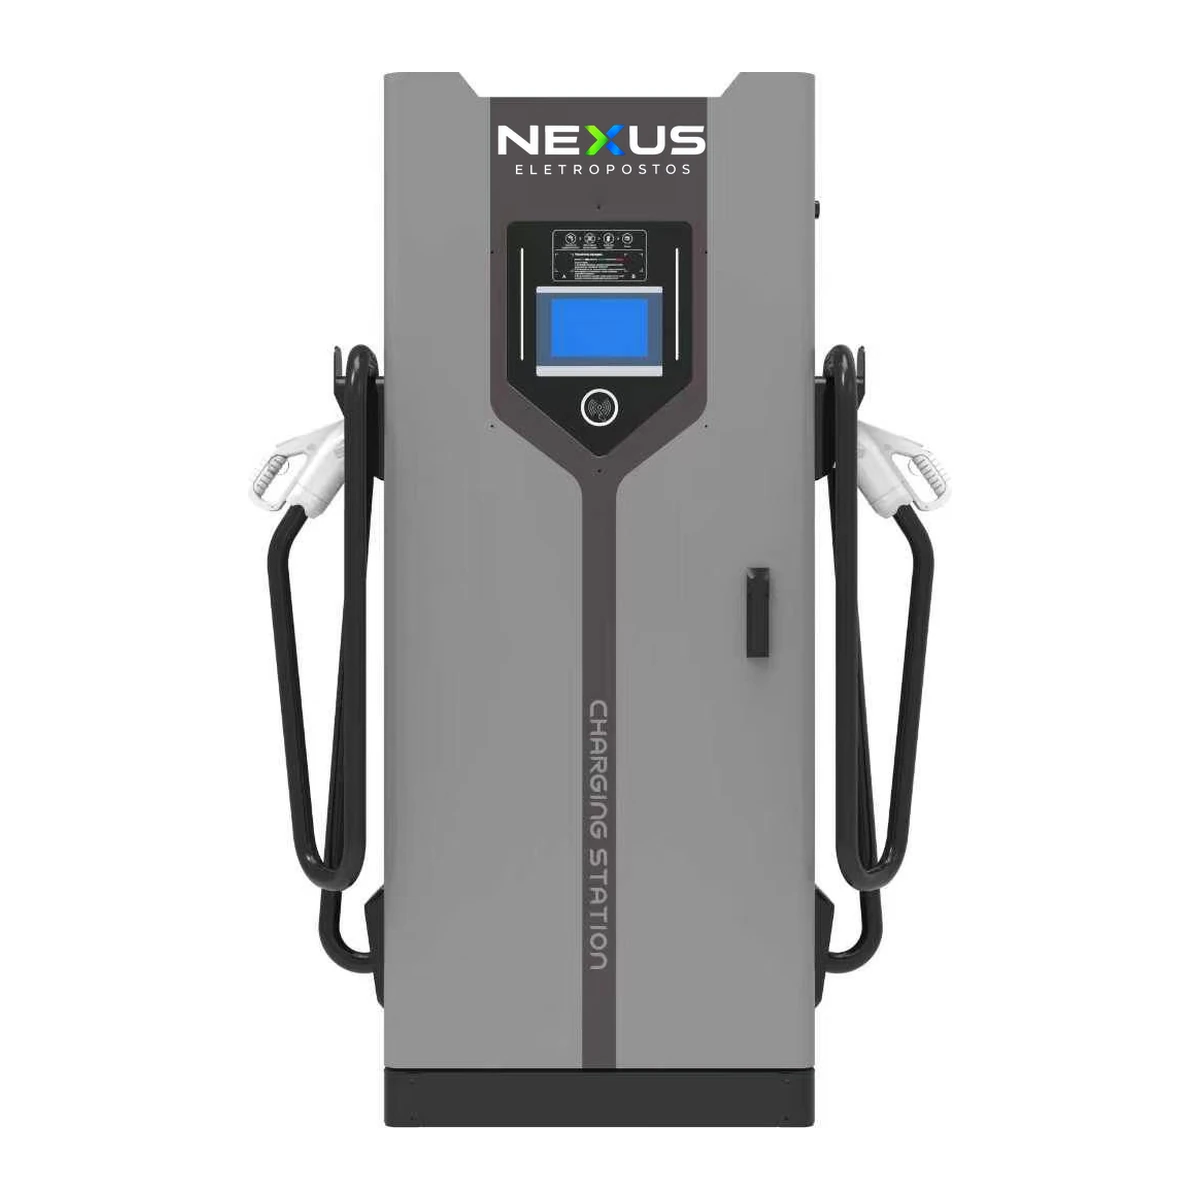
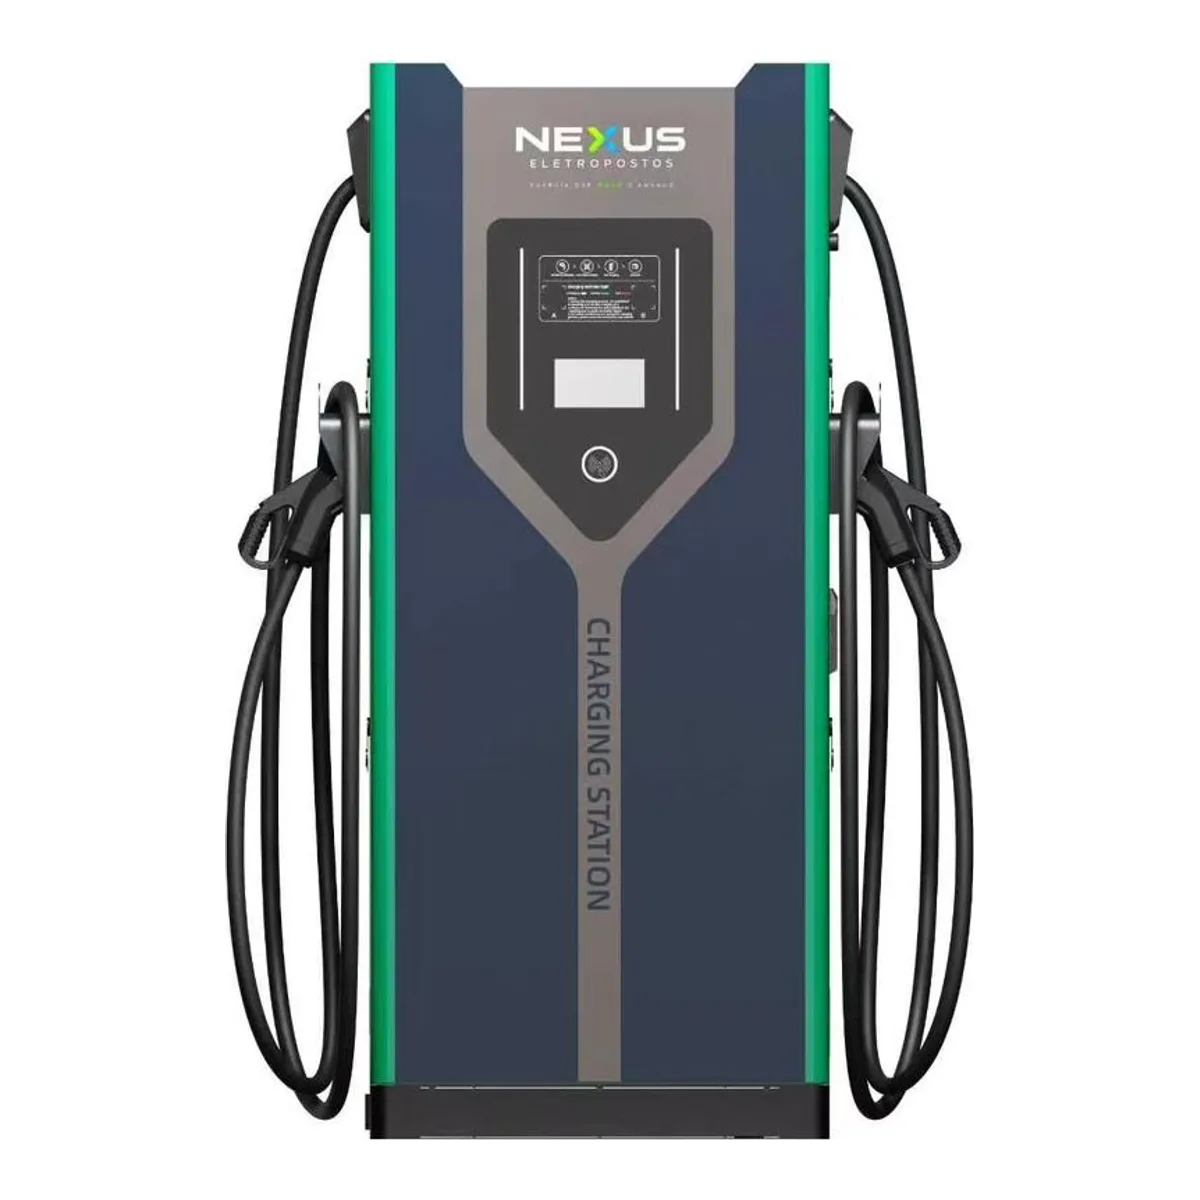
feat(nexus): a arte final do carregador DC entra no site, em quatro vistas
O gabinete azul-marinho com as faixas verdes substitui o render na pintura
cinza antiga nos quatro cards DC da /nexus. Logo abaixo dos cards entra uma
faixa com as quatro vistas (frente, frente em perspectiva, porta de serviço e
traseira), e o schema do DC80 e do DC120 passa a listar as quatro imagens.
O card "Modelo 04 · Só o equipamento" da /io/eletroposto troca o recorte da
foto de fábrica pelo recorte da arte final.

O trocar-carregador.js foi reescrito para as quatro vistas. Ele corta o
branco em volta antes de encaixar (a arte chegou em 1600x900 com a máquina
ocupando um terço) e deixou de escrever por cima das fotos reais de estoque:
a seção onde elas estão diz "sem render, sem estúdio". Também não mexe na
capa.webp, nos wallbox nem na /eletroposto, que assina Irmãos na Obra.

diff --git a/dashboard/scripts/trocar-carregador.js b/dashboard/scripts/trocar-carregador.js
@@ -1,71 +1,91 @@
 #!/usr/bin/env node
 /**
- * Põe o render do carregador NEXUS final em todo lugar que mostra o produto.
+ * Põe a arte final do carregador DC da NEXUS nos lugares que mostram o produto.
  *
- * Uso:  node dashboard/scripts/trocar-carregador.js <caminho-do-png-ou-webp>
- *       node dashboard/scripts/trocar-carregador.js <arquivo> --dry
+ * Uso (as quatro vistas, nesta ordem):
+ *   node dashboard/scripts/trocar-carregador.js <frente> <frente-perspectiva> <traseira-perspectiva> <traseira>
+ *   ... --dry   só lista o que seria gravado
  *
- * POR QUE ESTE SCRIPT EXISTE (17/09/2026)
- * O funil mostrava três máquinas diferentes e nenhuma era o produto final: uma cena
- * gerada com gabinete branco no topo de quatro páginas, o mesmo gabinete do produto
- * na pintura cinza antiga em /nexus, e uma foto real de caixa branca com os cabos
- * ainda embrulhados em plástico no site institucional.
+ *   frente                a tela e o "CHARGING STATION" de frente
+ *   frente-perspectiva    a mesma face, girada, mostrando a lateral com a grade
+ *   traseira-perspectiva  a porta de serviço girada, com a grade da lateral
+ *   traseira              a porta de serviço de frente
  *
- * O QUE ELE NÃO FAZ
- * Não encosta em capa.webp (a cena do topo, com dois carros e a cobertura) nem nos
- * três AC (p-ac7, p-ac11, p-ac22). Aqueles são outras imagens, não outra pintura
- * desta, e trocar por um render de DC seria mentir sobre o produto.
+ * HISTÓRICO
+ * 17/09/2026: a primeira versão pegava UM arquivo e gravava por cima de sete,
+ *   inclusive das fotos reais de estoque.
+ * 21/09/2026: a arte final chegou em quatro vistas de 1600x900 com muito branco em
+ *   volta. Esta versão corta o branco antes de encaixar (sem isso a máquina ficava
+ *   com um terço da altura do card) e escreve só onde o produto é desenho.
+ *
+ * O QUE ELE NÃO FAZ, DE PROPÓSITO
+ * - nexus/img/hero.webp, equipamento.webp e unidade.webp: são fotos de fábrica, e a
+ *   seção da /nexus diz "sem render, sem estúdio". Trocar por render seria mentir.
+ * - nexus/img/capa.webp: é a cena do topo (cobertura e dois carros), outra imagem.
+ *   Refazer a cena com a máquina nova é geração de imagem, não recorte.
+ * - p-ac7, p-ac11, p-ac22: são os wallbox, outro produto.
+ * - eletroposto/img/produto-dc.jpg: a /eletroposto assina Irmãos na Obra, e a arte
+ *   final tem o logo da NEXUS estampado no gabinete.
  */
 const fs = require('fs');
 const path = require('path');
 const sharp = require(path.join(__dirname, '..', 'node_modules', 'sharp'));
 
 const RAIZ = path.join(__dirname, '..', 'public');
-const FUNDO = { r: 255, g: 255, b: 255, alpha: 1 };   // o padrão de recorte da casa
+const BRANCO = { r: 255, g: 255, b: 255, alpha: 1 };
 
-// destino, largura, altura, qualidade. As medidas são as dos arquivos que já estão
-// no ar: mudar o tamanho aqui desalinha o layout que já foi testado no celular.
+// vista (índice do argumento), destino, largura, altura, margem, qualidade, modo.
+// 'inteiro' encaixa a máquina toda com margem; 'topo' recorta a parte de cima
+// (logo e tela), que é o que se lê numa miniatura de 132 px.
 const ALVOS = [
-  ['nexus/img/p-dc.webp',                         1200, 1200, 82],
-  ['nexus/img/equipamento.webp',                   820, 1093, 82],
-  ['nexus/img/unidade.webp',                       820, 1093, 82],
-  ['io/eletroposto/img/fotos/produto-dc-900.webp', 900, 1132, 82],
-  ['io/eletroposto/img/fotos/produto-dc-600.webp', 600,  755, 80],
-  ['io/eletroposto/img/fotos/modelo-04-equipamento.webp', 480, 320, 80],
-  ['eletroposto/img/produto-dc.jpg',              1040, 1418, 86],
+  [0, 'nexus/img/p-dc.webp',                    1200, 1200, 0.05, 82, 'inteiro'],
+  [1, 'nexus/img/dc-perspectiva.webp',           800,  800, 0.06, 80, 'inteiro'],
+  [2, 'nexus/img/dc-lateral.webp',               800,  800, 0.06, 80, 'inteiro'],
+  [3, 'nexus/img/dc-traseira.webp',              800,  800, 0.06, 80, 'inteiro'],
+  [1, 'io/eletroposto/img/fotos/modelo-04-equipamento.webp', 480, 320, 0, 80, 'topo'],
 ];
 
+// Corta o fundo branco. O limiar tolera o ruído do JPEG sem comer a sombra do piso.
+async function recortado(origem) {
+  const { data, info } = await sharp(origem)
+    .trim({ background: '#ffffff', threshold: 18 })
+    .toBuffer({ resolveWithObject: true });
+  return { buf: data, w: info.width, h: info.height };
+}
+
+async function gerar(origem, [, rel, W, H, margem, q, modo]) {
+  const r = await recortado(origem);
+  let img;
+  if (modo === 'topo') {
+    // Faixa de cima com a proporção do destino, pegando a largura inteira do gabinete.
+    const alto = Math.min(r.h, Math.round(r.w * H / W));
+    img = sharp(r.buf).extract({ left: 0, top: 0, width: r.w, height: alto }).resize(W, H, { fit: 'cover' });
+  } else {
+    const padX = Math.round(W * margem), padY = Math.round(H * margem);
+    img = sharp(r.buf)
+      .resize(W - 2 * padX, H - 2 * padY, { fit: 'contain', background: BRANCO })
+      .extend({ top: padY, bottom: padY, left: padX, right: padX, background: BRANCO });
+  }
+  img = img.flatten({ background: BRANCO });
+  return rel.endsWith('.jpg') ? img.jpeg({ quality: q, mozjpeg: true }) : img.webp({ quality: q });
+}
+
 async function main() {
-  const origem = process.argv[2];
+  const args = process.argv.slice(2).filter(a => !a.startsWith('--'));
   const dry = process.argv.includes('--dry');
-  if (!origem || !fs.existsSync(origem)) {
-    console.error('Passe o caminho do arquivo do render. Ex.:');
-    console.error('  node dashboard/scripts/trocar-carregador.js ~/Downloads/nexus-dc.png');
+  if (args.length !== 4 || !args.every(a => fs.existsSync(a))) {
+    console.error('Passe as quatro vistas: frente, frente-perspectiva, traseira-perspectiva, traseira.');
     process.exit(1);
   }
 
-  const m = await sharp(origem).metadata();
-  console.log(`origem: ${origem} — ${m.width}x${m.height} ${m.format}\n`);
-
-  for (const [rel, w, h, q] of ALVOS) {
+  for (const alvo of ALVOS) {
+    const [i, rel, W, H] = alvo;
     const destino = path.join(RAIZ, rel);
-    if (!fs.existsSync(destino)) { console.log(`PULADO (não existe): ${rel}`); continue; }
-    const antes = Math.round(fs.statSync(destino).size / 1024);
-    if (dry) { console.log(`[dry] ${rel}  ${w}x${h}  (hoje ${antes} KB)`); continue; }
-
-    // `contain` e não `cover`: o produto é alto e estreito, e cortar para preencher
-    // um slot deitado (o modelo-04 é 480x320) decepa a máquina pela metade.
-    let img = sharp(origem).resize(w, h, { fit: 'contain', background: FUNDO });
-    img = rel.endsWith('.jpg') ? img.jpeg({ quality: q }) : img.webp({ quality: q });
-    await img.toFile(destino + '.tmp');
+    const antes = fs.existsSync(destino) ? `${Math.round(fs.statSync(destino).size / 1024)} KB` : 'novo';
+    if (dry) { console.log(`[dry] ${rel}  ${W}x${H}  de ${path.basename(args[i])}  (hoje ${antes})`); continue; }
+    await (await gerar(args[i], alvo)).toFile(destino + '.tmp');
     fs.renameSync(destino + '.tmp', destino);
-    const depois = Math.round(fs.statSync(destino).size / 1024);
-    console.log(`ok  ${rel}  ${w}x${h}  ${antes} KB -> ${depois} KB`);
-  }
-
-  if (!dry) {
-    console.log('\nNenhum HTML precisou mudar: os arquivos mantêm o mesmo nome e tamanho.');
-    console.log('Confira /nexus, /eletroposto e /io/eletroposto antes de publicar.');
+    console.log(`ok  ${rel}  ${W}x${H}  ${antes} -> ${Math.round(fs.statSync(destino).size / 1024)} KB`);
   }
 }
 

diff --git a/dashboard/public/nexus/index.html b/dashboard/public/nexus/index.html
@@ -73,7 +73,7 @@
           "item": {
             "@type": "Product", "name": "NEXUS DC80", "sku": "NEXUS-DC80",
             "description": "Carregador rápido DC de 80 kW, dois plugues CCS2, dois carros ao mesmo tempo, OCPP 1.6J.",
-            "image": "https://solardoc.app/nexus/img/p-dc.webp",
+            "image": ["https://solardoc.app/nexus/img/p-dc.webp", "https://solardoc.app/nexus/img/dc-perspectiva.webp", "https://solardoc.app/nexus/img/dc-lateral.webp", "https://solardoc.app/nexus/img/dc-traseira.webp"],
             "category": "Carregador para veículo elétrico",
             "brand": { "@type": "Brand", "name": "NEXUS" },
             "offers": { "@type": "Offer", "price": "69990.00", "priceCurrency": "BRL", "availability": "https://schema.org/InStock", "itemCondition": "https://schema.org/NewCondition", "url": "https://solardoc.app/nexus#produtos", "seller": { "@id": "https://solardoc.app/nexus#empresa" } }
@@ -84,7 +84,7 @@
           "item": {
             "@type": "Product", "name": "NEXUS DC120", "sku": "NEXUS-DC120",
             "description": "Carregador rápido DC de 120 kW, dois plugues CCS2, divide a potência entre as vagas, OCPP 1.6J.",
-            "image": "https://solardoc.app/nexus/img/p-dc.webp",
+            "image": ["https://solardoc.app/nexus/img/p-dc.webp", "https://solardoc.app/nexus/img/dc-perspectiva.webp", "https://solardoc.app/nexus/img/dc-lateral.webp", "https://solardoc.app/nexus/img/dc-traseira.webp"],
             "category": "Carregador para veículo elétrico",
             "brand": { "@type": "Brand", "name": "NEXUS" },
             "offers": { "@type": "Offer", "price": "89990.00", "priceCurrency": "BRL", "availability": "https://schema.org/InStock", "itemCondition": "https://schema.org/NewCondition", "url": "https://solardoc.app/nexus#produtos", "seller": { "@id": "https://solardoc.app/nexus#empresa" } }
@@ -278,6 +278,18 @@ section{padding:56px 0 0;scroll-margin-top:78px}
   padding:4px 10px;font-size:11px;font-weight:600}
 .selo.destaque{background:var(--verde-fundo);color:var(--verde);border:1px solid var(--verde-linha)}
 .nota{margin-top:14px;font-size:12.5px;color:var(--fraco)}
+
+/* quatro vistas do gabinete DC: fundo branco como o dos cards, legenda no escuro */
+.vistas-titulo{margin:26px 0 12px}
+.vistas{display:grid;gap:14px;grid-template-columns:repeat(4,1fr)}
+.vistas figure{margin:0;background:var(--cartao);border:1px solid var(--linha);border-radius:16px;overflow:hidden}
+.vistas figure > div{background:#fff}
+.vistas img{width:100%;height:auto;aspect-ratio:1/1;object-fit:contain;padding:6px}
+.vistas figcaption{padding:10px 14px;font-size:13px;font-weight:600;color:var(--texto)}
+@media(max-width:700px){
+  .vistas{grid-template-columns:repeat(2,1fr);gap:10px}
+  .vistas figcaption{padding:8px 11px;font-size:12px}
+}
 
 /* ── faixa de posicionamento ─────────────────────────────────────────── */
 .posic{margin-top:16px;background:
@@ -645,6 +657,17 @@ footer .base{border-top:1px solid var(--linha);padding-top:20px;display:flex;gap
       </div>
     </article>
 
+  </div>
+
+  <!-- A arte final do gabinete DC em quatro vistas. A frente reaproveita o
+       p-dc.webp dos cards, que o navegador já baixou. Gerado por
+       scripts/trocar-carregador.js a partir das quatro vistas originais. -->
+  <p class="rotulo vistas-titulo">O gabinete da linha DC, dos quatro lados</p>
+  <div class="vistas">
+    <figure><div><img src="/nexus/img/p-dc.webp" width="1200" height="1200" alt="Gabinete NEXUS DC de frente, azul-marinho com faixas verdes, tela e a faixa CHARGING STATION, com um cabo CCS2 de cada lado" loading="lazy"></div><figcaption>Frente</figcaption></figure>
+    <figure><div><img src="/nexus/img/dc-perspectiva.webp" width="800" height="800" alt="Gabinete NEXUS DC em perspectiva, com a frente azul-marinho e a lateral com a grade de ventilação" loading="lazy"></div><figcaption>Frente em perspectiva</figcaption></figure>
+    <figure><div><img src="/nexus/img/dc-lateral.webp" width="800" height="800" alt="Gabinete NEXUS DC visto pela porta de serviço em perspectiva, com a grade de ventilação na lateral" loading="lazy"></div><figcaption>Porta de serviço</figcaption></figure>
+    <figure><div><img src="/nexus/img/dc-traseira.webp" width="800" height="800" alt="Traseira do gabinete NEXUS DC: porta de serviço com puxador e o logo da marca" loading="lazy"></div><figcaption>Traseira</figcaption></figure>
   </div>
 
   <div class="cabeca" style="margin-top:38px">
